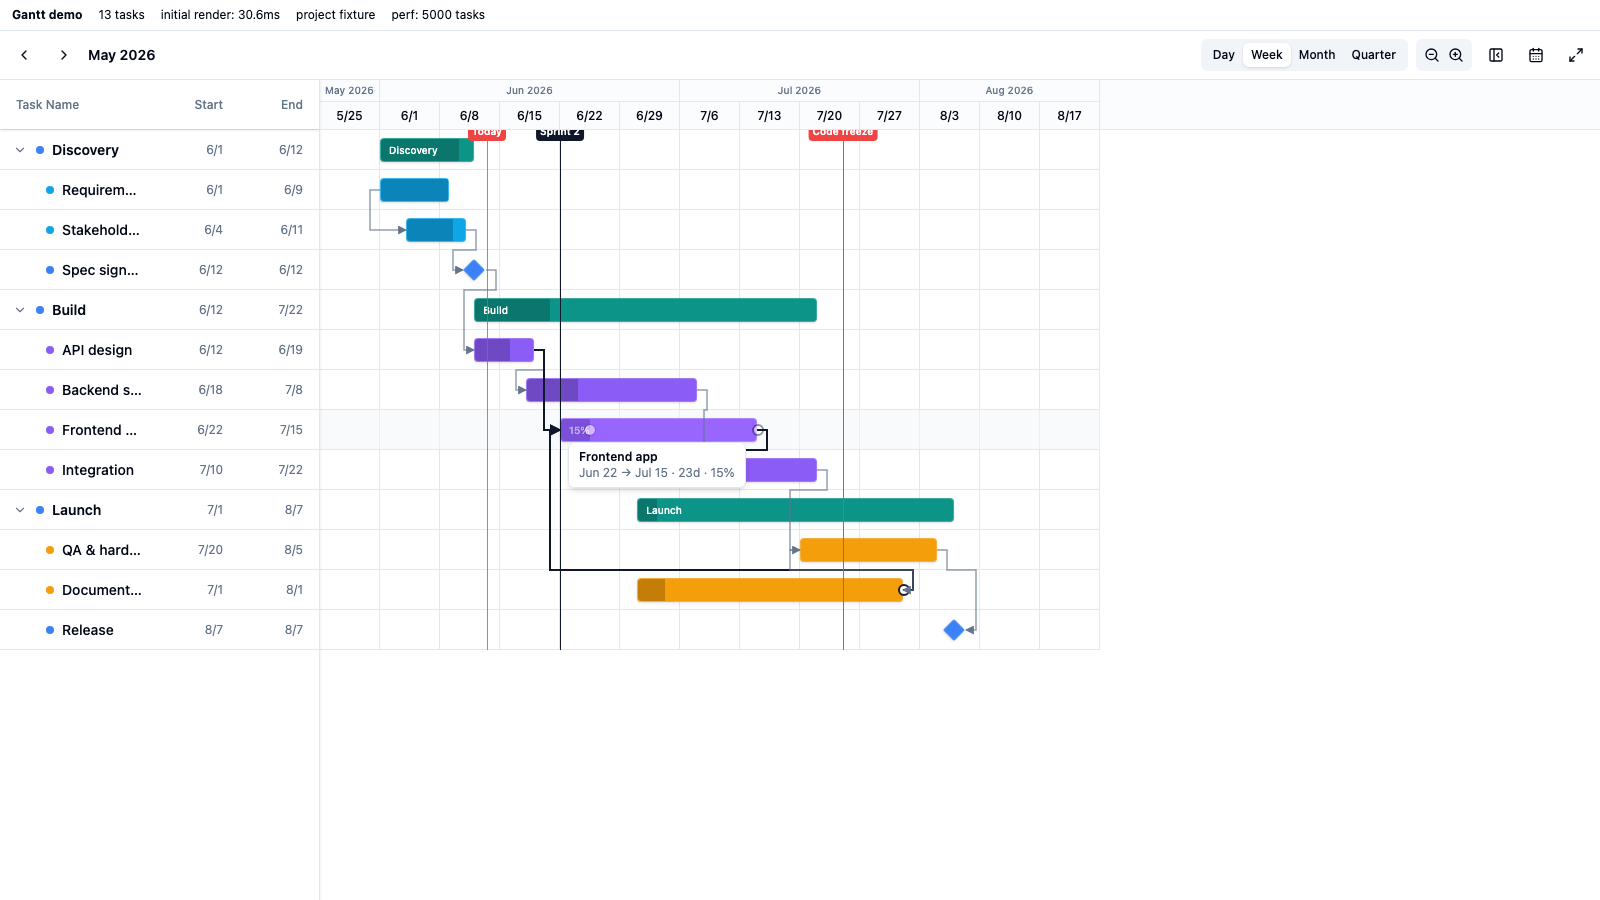
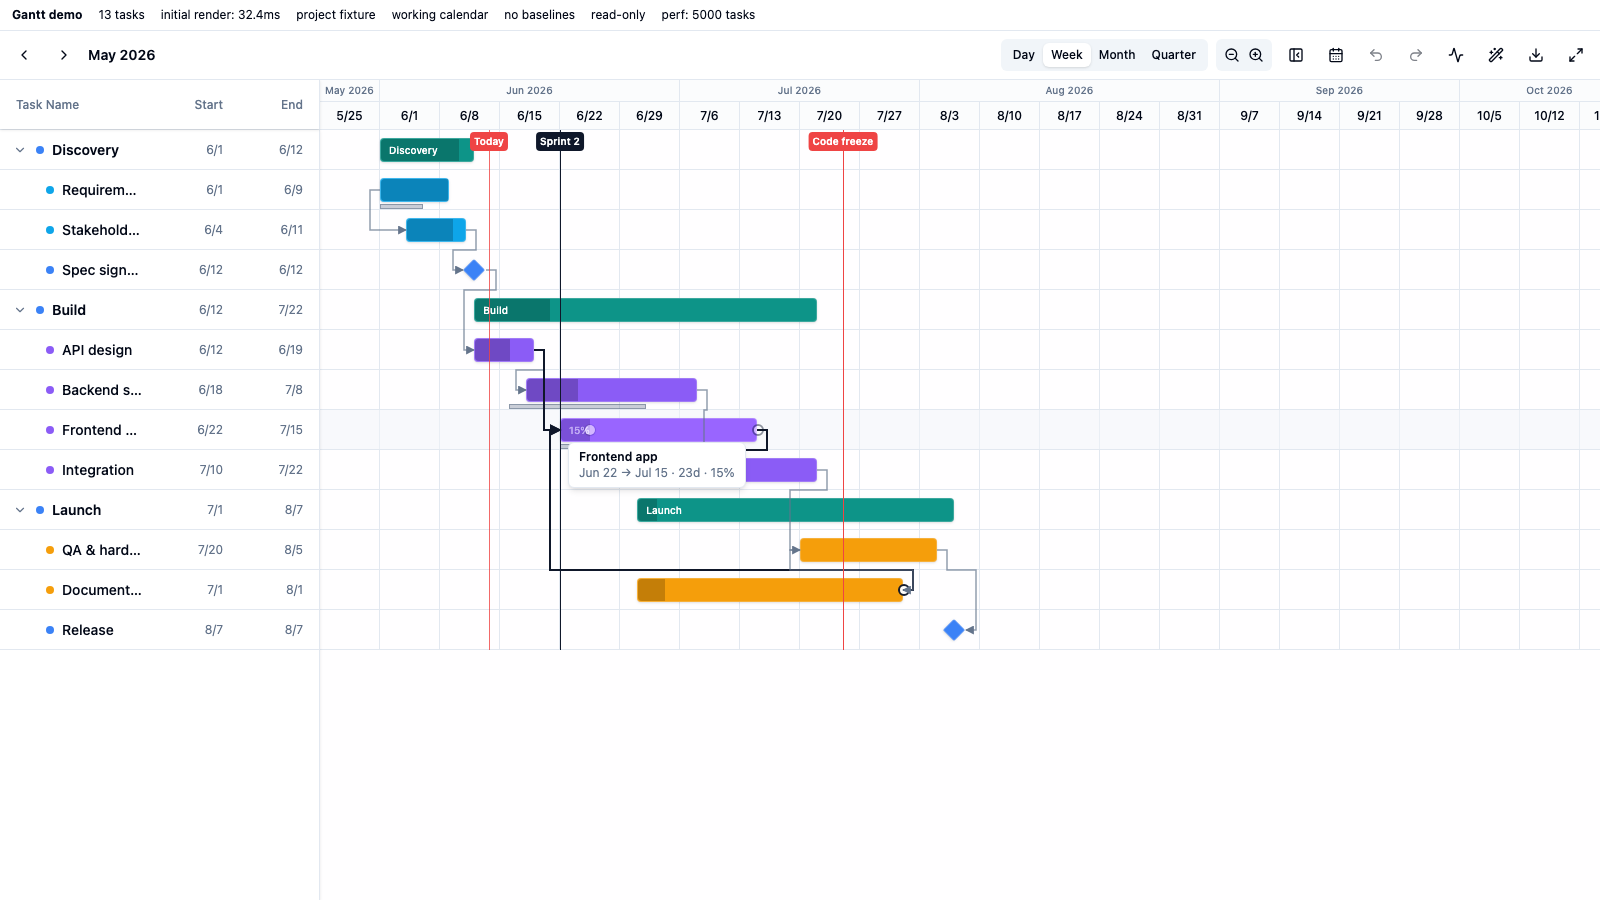
fix(gantt): fill the timeline viewport in week/month/quarter mode
With a fixed per-unit column width, a short date span in week/month/quarter
mode produced a grid far narrower than the timeline area, leaving a large
blank gap on the right (day mode already overflows, so it looked fine there).

When the end date is auto-derived, timelineRange now extends with empty
trailing calendar columns until the grid reaches the right edge — the scale
stays honest (real calendar units), only the visible future grows. No-op in
day mode and when the caller controls endDate.

Also refresh a stale verify-browser assertion: t4 carries configured
tooltipFields (Owner/Status/Effort) which replace the default
date·duration·progress line, so the tooltip check now asserts those fields
instead of '30%'.

verify-browser.mjs: +1 viewport-fill check (19/19); verified week/month/
quarter all fill in-browser (content width ≥ viewport).

diff --git a/packages/plugin-gantt/src/GanttView.tsx b/packages/plugin-gantt/src/GanttView.tsx
@@ -864,8 +864,25 @@ export function GanttView({
     start = startOfUnit(start, viewMode);
     end.setHours(23,59,59,999);
 
+    // Fill the viewport. With a fixed per-unit column width, a short date span
+    // in week/month/quarter mode leaves the grid far narrower than the timeline
+    // area, so the right side reads as blank. When the end is auto-derived,
+    // extend it with empty trailing calendar columns until the grid reaches the
+    // right edge — the scale stays honest (real calendar units), we just show
+    // more of the future. Day mode usually already overflows, so this is a
+    // no-op there. Skip entirely when the caller controls `endDate`.
+    if (!endDate && tasks.length > 0 && pxPerDay > 0) {
+      const avail = Math.max(0, effectiveWidth - taskListWidth);
+      const haveDays = (end.getTime() - start.getTime()) / MS_PER_DAY;
+      const needDays = avail / pxPerDay;
+      if (needDays > haveDays) {
+        const target = new Date(start.getTime() + Math.ceil(needDays) * MS_PER_DAY);
+        if (target > end) end = target;
+      }
+    }
+
     return { start, end };
-  }, [startDate, endDate, tasks, viewMode]);
+  }, [startDate, endDate, tasks, viewMode, pxPerDay, effectiveWidth, taskListWidth]);
 
   // Generate timeline columns — one per unit of the active granularity.
   // Widths follow the calendar at pxPerDay, so a 31-day month column is

diff --git a/packages/plugin-gantt/docs/verification/README.md b/packages/plugin-gantt/docs/verification/README.md
@@ -13,7 +13,7 @@ pnpm --dir packages/plugin-gantt exec vite demo --port 5199
 node packages/plugin-gantt/scripts/verify-browser.mjs
 ```
 
-## Latest run: 18/18 checks passed
+## Latest run: 19/19 checks passed
 
 ### 1. Hierarchy, milestones, dependency links
 
@@ -24,6 +24,12 @@ node packages/plugin-gantt/scripts/verify-browser.mjs
   Code freeze).
 - ![Project overview, day mode](01-project-overview.png)
 - ![Whole project with all links, week mode](02-week-mode-all-links.png)
+- **Viewport fill:** per-unit column width is fixed, so a short date span in
+  week / month / quarter mode would otherwise leave the grid much narrower than
+  the timeline area (a blank right-side gap). When the end date is auto-derived
+  the range now extends with empty trailing calendar columns until the grid
+  reaches the right edge — the scale stays honest (real weeks/months), only the
+  visible future grows. Asserted in week mode (content width ≥ viewport width).
 
 ### 2. Collapse / expand
 
